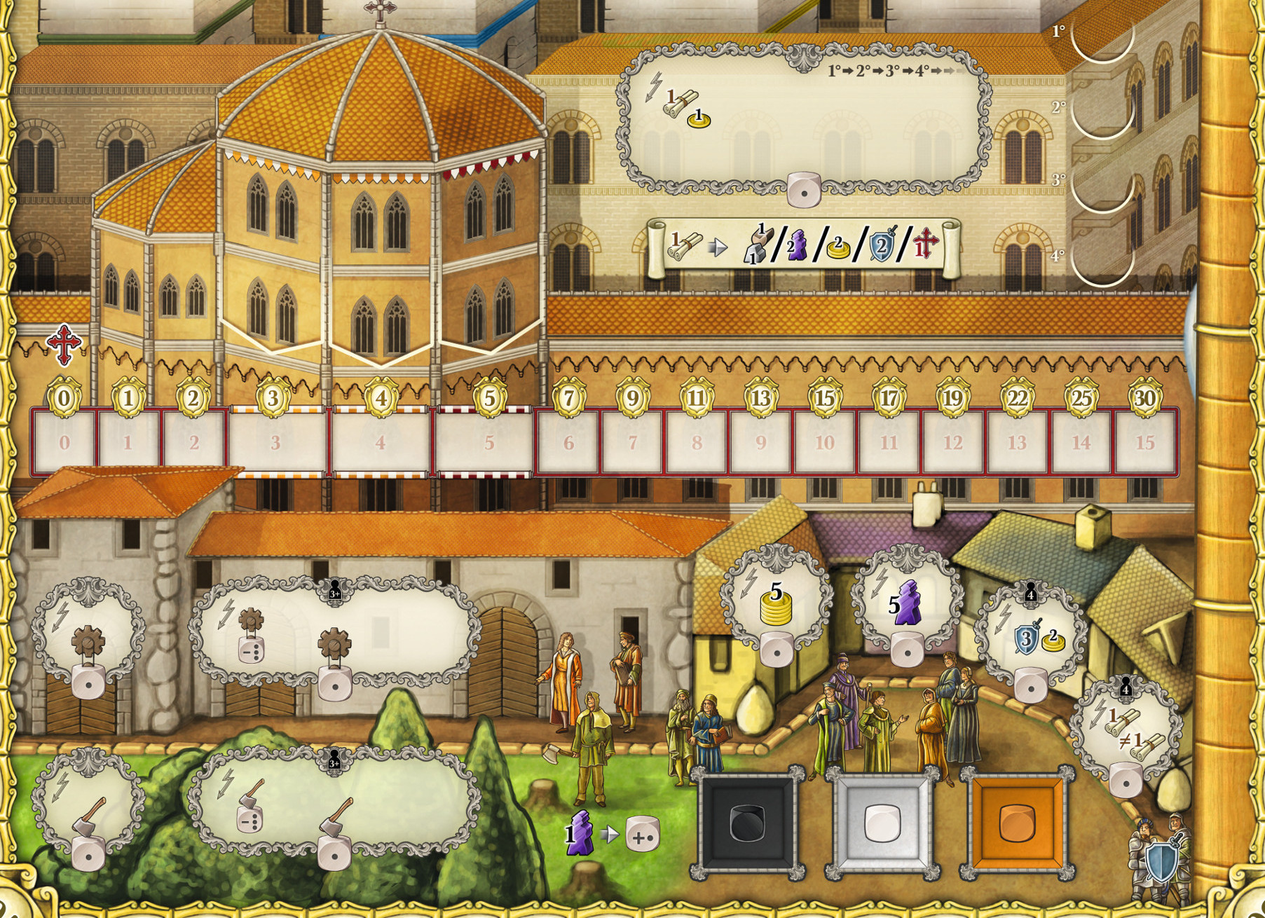
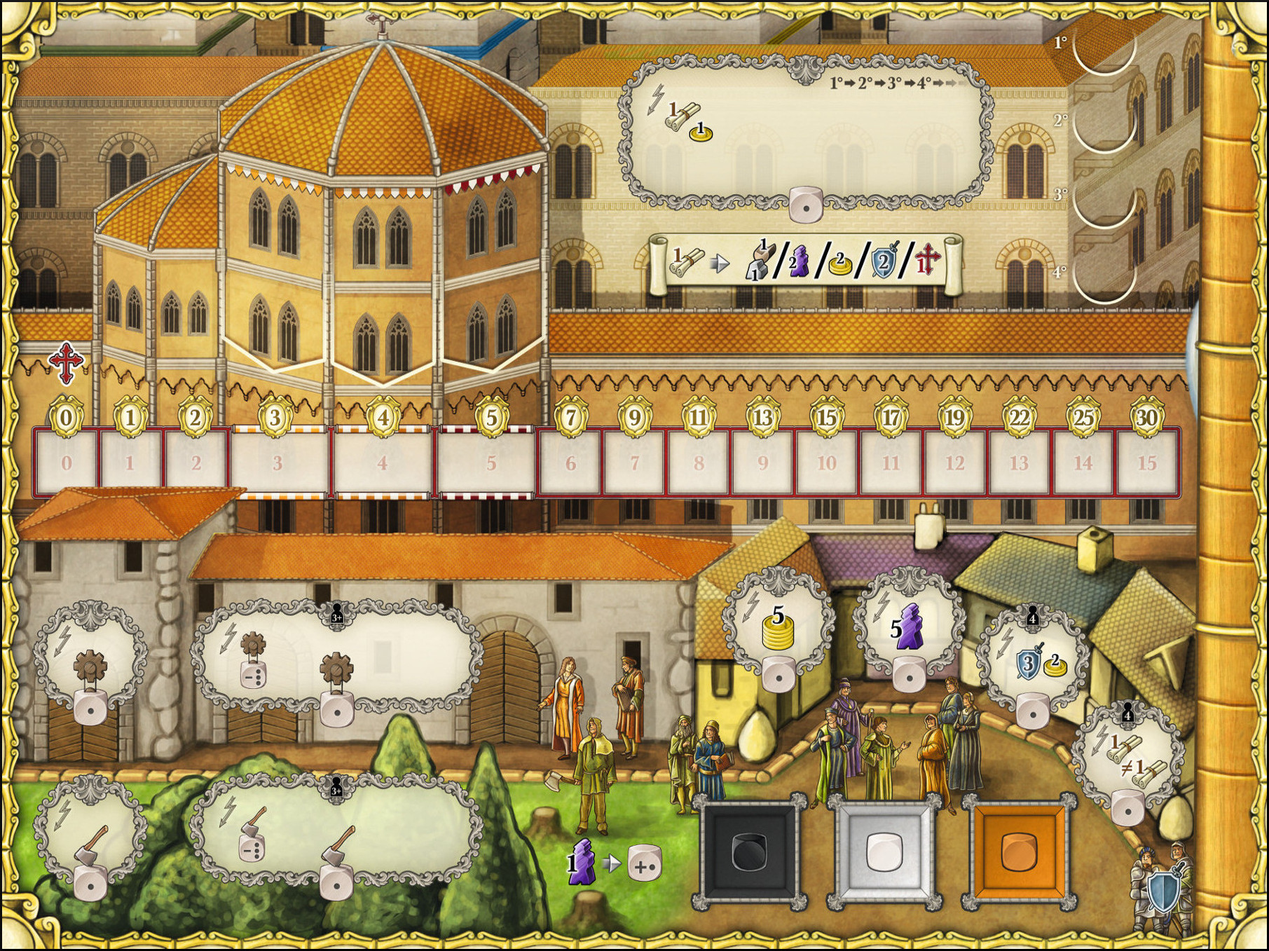
MAC OS Compatibility Fixes + Various Fixes

diff --git a/src/main/java/it/polimi/ingsw/ps06/view/GUI/BoardGUI.java b/src/main/java/it/polimi/ingsw/ps06/view/GUI/BoardGUI.java
@@ -19,22 +19,6 @@ import java.io.File;
 import java.io.IOException;
 
 import javax.imageio.ImageIO;
-import javax.swing.AbstractAction;
-import javax.swing.Action;
-import javax.swing.ImageIcon;
-import javax.swing.InputMap;
-import javax.swing.JButton;
-import javax.swing.JComponent;
-import javax.swing.JDesktopPane;
-import javax.swing.JFrame;
-import javax.swing.JInternalFrame;
-import javax.swing.JLabel;
-import javax.swing.JLayeredPane;
-import javax.swing.JPanel;
-import javax.swing.JRootPane;
-import javax.swing.KeyStroke;
-import javax.swing.Timer;
-import javax.swing.UIManager;
 import javax.swing.plaf.basic.BasicInternalFrameUI;
 
 import javafx.embed.swing.JFXPanel;
@@ -60,6 +44,9 @@ public class BoardGUI extends JFrame {
 	private JButton scrollTowers = new JButton();
 	private JButton scrollOthers = new JButton();
 	
+	private JTextField playerInfo;
+	private JTextField roundInfo;
+	
 	private JButton escMenu1;
 	private JButton escMenu2;
 	
@@ -68,9 +55,10 @@ public class BoardGUI extends JFrame {
 	private Direction direction;
 	
 	private double distance;
-	private int runTime = 700;
+	private int runTime = 1000;
     private long startTime = -1;
     private double smooth;
+    private boolean ok=true;
     
     private Font fontBIG;
     private JDesktopPane desktop;
@@ -87,6 +75,10 @@ public class BoardGUI extends JFrame {
 
 
 	public BoardGUI() throws IOException{
+		
+		try {
+		    UIManager.setLookAndFeel( UIManager.getCrossPlatformLookAndFeelClassName() );
+		 } catch (Exception e) { e.printStackTrace();}
 		
 		//JFrame towers = new JFrame();
 		//JFrame others = new JFrame();
@@ -112,13 +104,19 @@ public class BoardGUI extends JFrame {
 	    personalBoard.getRootPane().setWindowDecorationStyle(JRootPane.NONE);
 	    
 	    
-	    //Rimuovi la barra per muovere le finestre
+	    //Rimuovi la barra per muovere le finestre	    
+	    towers.putClientProperty("JInternalFrame.isPalette", Boolean.TRUE);
+	    towers.setBorder(null);
 	    BasicInternalFrameUI bi = (BasicInternalFrameUI)towers.getUI();
 	    bi.setNorthPane(null);
 	    
+	    others.putClientProperty("JInternalFrame.isPalette", Boolean.TRUE);
+	    others.setBorder(null);
 	    BasicInternalFrameUI bi2 = (BasicInternalFrameUI)others.getUI();
 	    bi2.setNorthPane(null);
 	    
+	    personalBoard.putClientProperty("JInternalFrame.isPalette", Boolean.TRUE);
+	    personalBoard.setBorder(null);
 	    BasicInternalFrameUI bi3 = (BasicInternalFrameUI)personalBoard.getUI();
 	    bi3.setNorthPane(null);
 	    
@@ -133,7 +131,7 @@ public class BoardGUI extends JFrame {
 		distance = 9 * ((screenSize.getHeight()/1080)*2);
 		smooth = 10 * ((screenSize.getHeight()/1080));
 		
-		fontBIG = new Font("Lucida Handwriting",Font.PLAIN,(int)(24*(screenSize.getHeight()/1080)) );
+		fontBIG = new Font("Lucida Handwriting",Font.PLAIN,(int)(40*(screenSize.getHeight()/1080)) );
 		
 		//Caricamento e resize delle immagini
 		BufferedImage image1 = ImageIO.read(new File("resources/board1.jpg")); 
@@ -146,7 +144,7 @@ public class BoardGUI extends JFrame {
 		BufferedImage board2 = new BufferedImage(width, height, BufferedImage.TYPE_INT_RGB);
 		BufferedImage board3 = new BufferedImage(escWidth, escHeight, BufferedImage.TYPE_INT_RGB);
 		BufferedImage desktopImage = new BufferedImage((int)screenSize.getWidth(), (int)screenSize.getHeight(), BufferedImage.TYPE_INT_RGB);
-		BufferedImage pbImage = new BufferedImage( (int)(screenSize.getWidth()), (int)(screenSize.getHeight()*0.2), BufferedImage.TYPE_INT_RGB);
+		BufferedImage pbImage = new BufferedImage( (int)(screenSize.getWidth()), (int)(screenSize.getHeight()*0.18), BufferedImage.TYPE_INT_RGB);
 		
 		Graphics g1 = board1.createGraphics();
         g1.drawImage(image1, 0, 0, width, height, null);
@@ -165,7 +163,7 @@ public class BoardGUI extends JFrame {
         g4.dispose();
         
         Graphics g5 = pbImage.createGraphics();
-        g5.drawImage(image5, 0, 0, (int)screenSize.getWidth(), (int)(screenSize.getHeight()*0.2), null);
+        g5.drawImage(image5, 0, 0, (int)screenSize.getWidth(), (int)(screenSize.getHeight()*0.18), null);
         g5.dispose();
         
         JLabel board1Label = new JLabel(new ImageIcon(board1)); 
@@ -203,44 +201,92 @@ public class BoardGUI extends JFrame {
           
  
         //Inizializzazione dei componenti
+		String player="";
 		
+		playerInfo = new JTextField("  Turno del giocatore: "+player);
+		playerInfo.setLocation(0,0);
+		playerInfo.setSize((int)screenSize.getWidth()*70/100,(int)screenSize.getHeight()*6/100);
+		playerInfo.setOpaque(false);
+		playerInfo.setEditable(false);
+		playerInfo.setBorder(null);
+		playerInfo.setFont(fontBIG);
+		playerInfo.setForeground(Color.BLACK);
 		
-        scrollOthers.setLocation(width*35/100,0);
-        scrollOthers.setSize(width*30/100,height*5/100);
+		int roundNumber=1;
+		int periodNumber=1;
+		
+		roundInfo = new JTextField("Turno: "+roundNumber+"  Periodo: "+periodNumber);
+		roundInfo.setLocation((int)screenSize.getWidth()*70/100,0);
+		roundInfo.setSize((int)screenSize.getWidth()*30/100,(int)screenSize.getHeight()*6/100);
+		roundInfo.setOpaque(false);
+		roundInfo.setEditable(false);
+		roundInfo.setBorder(null);
+		roundInfo.setFont(fontBIG);
+		roundInfo.setForeground(Color.BLACK);
+		
+        scrollOthers.setLocation(width*95/100,height*35/100);
+        scrollOthers.setSize(width*5/100,height*30/100);
         scrollOthers.setOpaque(false);
         scrollOthers.setContentAreaFilled(false);
         scrollOthers.setFocusPainted(false);
         //scrollOthers.setBorderPainted(false);
-   
-        scrollOthers.addMouseListener(new MouseAdapter()
-        {
-            public void mousePressed(MouseEvent evt)
-            {
+        
+        scrollOthers.addActionListener(new ActionListener() {
+            public void actionPerformed(ActionEvent ae) {
             	MediaPlayer mediaPlayer1 = new MediaPlayer(slideSound);
 				mediaPlayer1.play();
             	Animation(others ,towers,Direction.RIGHT);
             	
+            	scrollTowers.setEnabled(false);
+            	scrollOthers.setEnabled(false);
+            	
+            	new java.util.Timer().schedule( 
+            	        new java.util.TimerTask() {
+            	            @Override
+            	            public void run() {
+            	            	scrollTowers.setEnabled(true);
+                        		scrollOthers.setEnabled(true);
+            	            }
+            	        }, 
+            	        2000 
+            	);
             }
-        });
+          }
+        );
+
         
-        
-        scrollTowers.setLocation(width*35/100,height*95/100);
-        scrollTowers.setSize(width*30/100,height*5/100);
+        scrollTowers.setLocation(0,height*35/100);
+        scrollTowers.setSize(width*5/100,height*30/100);
         scrollTowers.setOpaque(false);
         scrollTowers.setContentAreaFilled(false);
         scrollTowers.setFocusPainted(false);
         //scrollTowers.setBorderPainted(false);
    
-        scrollTowers.addMouseListener(new MouseAdapter()
-        {
-            public void mousePressed(MouseEvent evt)
-            {
+        
+        scrollTowers.addActionListener(new ActionListener() {
+            public void actionPerformed(ActionEvent ae) {
+            	
+            	
             	MediaPlayer mediaPlayer2 = new MediaPlayer(slideSound);
 				mediaPlayer2.play();
-            	Animation(towers ,others,Direction.BOTTOM);
+            	Animation(towers ,others,Direction.LEFT);
             	
+            	scrollTowers.setEnabled(false);
+            	scrollOthers.setEnabled(false);
+            	
+            	new java.util.Timer().schedule( 
+            	        new java.util.TimerTask() {
+            	            @Override
+            	            public void run() {
+            	            	scrollTowers.setEnabled(true);
+                        		scrollOthers.setEnabled(true);
+            	            }
+            	        }, 
+            	        2000 
+            	);
             }
-        });
+          });
+            
         
         
         escMenu1 = new JButton("Ritorna al gioco");
@@ -284,7 +330,6 @@ public class BoardGUI extends JFrame {
             	
             	MediaPlayer mediaPlayer6 = new MediaPlayer(exitSound);
         		mediaPlayer6.play();
-        		try {Thread.sleep(200);} catch (InterruptedException e) {e.printStackTrace();}
         		System.exit(0);
 				
             }
@@ -308,24 +353,32 @@ public class BoardGUI extends JFrame {
 				mediaPlayer5.play();
             	escFrame.dispose();}};
             	
-            	
+        KeyStroke stroke = KeyStroke.getKeyStroke(KeyEvent.VK_ESCAPE, 0); 
+        
         JPanel towerPanel = (JPanel) towers.getContentPane();
         InputMap inputMap = towerPanel.getInputMap(JComponent.WHEN_IN_FOCUSED_WINDOW);
-        KeyStroke stroke = KeyStroke.getKeyStroke(KeyEvent.VK_ESCAPE, 0);
         inputMap.put(stroke, "OPEN");
         towerPanel.getActionMap().put("OPEN", esc);    
         
         JPanel otherPanel = (JPanel) others.getContentPane();
         InputMap inputMap2 = otherPanel.getInputMap(JComponent.WHEN_IN_FOCUSED_WINDOW);
-        KeyStroke stroke2 = KeyStroke.getKeyStroke(KeyEvent.VK_ESCAPE, 0);
-        inputMap2.put(stroke2, "OPEN");
+        inputMap2.put(stroke, "OPEN");
         otherPanel.getActionMap().put("OPEN", esc);
+        
+        JPanel pbPanel = (JPanel) personalBoard.getContentPane();
+        InputMap inputMap4 = pbPanel.getInputMap(JComponent.WHEN_IN_FOCUSED_WINDOW);
+        inputMap4.put(stroke, "OPEN");
+        pbPanel.getActionMap().put("OPEN", esc);
         
         JPanel escPanel = (JPanel) escFrame.getContentPane();
         InputMap inputMap3 = escPanel.getInputMap(JComponent.WHEN_IN_FOCUSED_WINDOW);
-        KeyStroke stroke3 = KeyStroke.getKeyStroke(KeyEvent.VK_ESCAPE, 0);
-        inputMap3.put(stroke3, "OPEN");
-        escPanel.getActionMap().put("OPEN", escClose);
+        inputMap3.put(stroke, "OPEN");
+        escPanel.getActionMap().put("OPEN", escClose); 
+        
+        JPanel desktopPanel = (JPanel) desktopFrame.getContentPane();
+        InputMap inputMap5 = desktopPanel.getInputMap(JComponent.WHEN_IN_FOCUSED_WINDOW);
+        inputMap5.put(stroke, "OPEN");
+        desktopPanel.getActionMap().put("OPEN", esc);
         
         
         
@@ -352,8 +405,8 @@ public class BoardGUI extends JFrame {
        
         personalBoard.getContentPane().add(pbLabel);
         personalBoard.setDefaultCloseOperation(JFrame.EXIT_ON_CLOSE);
-        personalBoard.setSize((int)screenSize.getWidth(), (int)(screenSize.getHeight()*20/100));
-        personalBoard.setLocation(0, (int)screenSize.getHeight()*80/100);
+        personalBoard.setSize((int)screenSize.getWidth(), (int)(screenSize.getHeight()*18/100));
+        personalBoard.setLocation(0, (int)screenSize.getHeight()*82/100);
         
         
         towers.setResizable(false);
@@ -371,7 +424,11 @@ public class BoardGUI extends JFrame {
         desktop.add(personalBoard);
 	    desktop.setVisible(true);
 
-	        
+	    
+	    desktopFrame.add(playerInfo);
+	    desktopFrame.add(roundInfo);
+	    desktopFrame.setExtendedState(JFrame.MAXIMIZED_BOTH); 
+	    desktopFrame.getRootPane().putClientProperty("apple.awt.fullscreenable", Boolean.valueOf(true));
 	    desktopFrame.add(desktop);
 	    desktopFrame.setSize((int)screenSize.getWidth(), (int)screenSize.getHeight());
 	    desktopFrame.setLocationRelativeTo(null);
@@ -403,7 +460,8 @@ public class BoardGUI extends JFrame {
                 } catch (Exception ex) {
                 }
 
-
+                ok = false;
+                
                 Timer timer = new Timer(40, new ActionListener() {
                     @Override
                     public void actionPerformed(ActionEvent e) {
@@ -463,6 +521,20 @@ public class BoardGUI extends JFrame {
 	                        }
 	                        if(to.x<location2.x) f1.setLocation(f2.getLocation());
 	                        else f1.setLocation(to);   
+	                        
+                        }
+                        
+                        if(direction==Direction.LEFT){
+	                        if(phase==1){
+	                        	to.x = f1.getX() - (int)Math.round(smooth * progress);
+	                            to.y = f1.getY();
+	                        }
+	                        else{
+	                        	to.x = f1.getX() + (int)Math.round(smooth * progress);
+	                            to.y = f1.getY();
+	                        }
+	                        if(to.x>location2.x) f1.setLocation(f2.getLocation());
+	                        else f1.setLocation(to);   
                         }
                         
                         if(direction==Direction.BOTTOM){
@@ -477,6 +549,8 @@ public class BoardGUI extends JFrame {
 	                        
 	                        if(to.y<location2.y) f1.setLocation(f2.getLocation());
 	                        else f1.setLocation(to);
+	                        
+	                        
                         }
                         
                         //f2.setLocation(to);
@@ -490,11 +564,13 @@ public class BoardGUI extends JFrame {
             
         });
 		
+		Dimension screenSize = Toolkit.getDefaultToolkit().getScreenSize();
 		phase=1;
 		change=true;	
 		distance = 9;
-		runTime = 700;
+		runTime = 1000;
 	    startTime = -1;
+	    
     }
 
 	/**
@@ -507,7 +583,8 @@ public class BoardGUI extends JFrame {
 		Dimension desktopSize = desktopFrame.getSize();
 	    Dimension jInternalFrameSize = jif.getSize();
 	    int width = (desktopSize.width - jInternalFrameSize.width) / 2;
-	    int height = ((desktopSize.height - jInternalFrameSize.height) / 2)-desktopSize.height*9/100;
+	    //int height = ((desktopSize.height - jInternalFrameSize.height) / 2)-desktopSize.height*8/100;
+	    int height=desktopSize.height*6/100;
 	    jif.setLocation(width, height);
 	    jif.setVisible(true);
 	    
